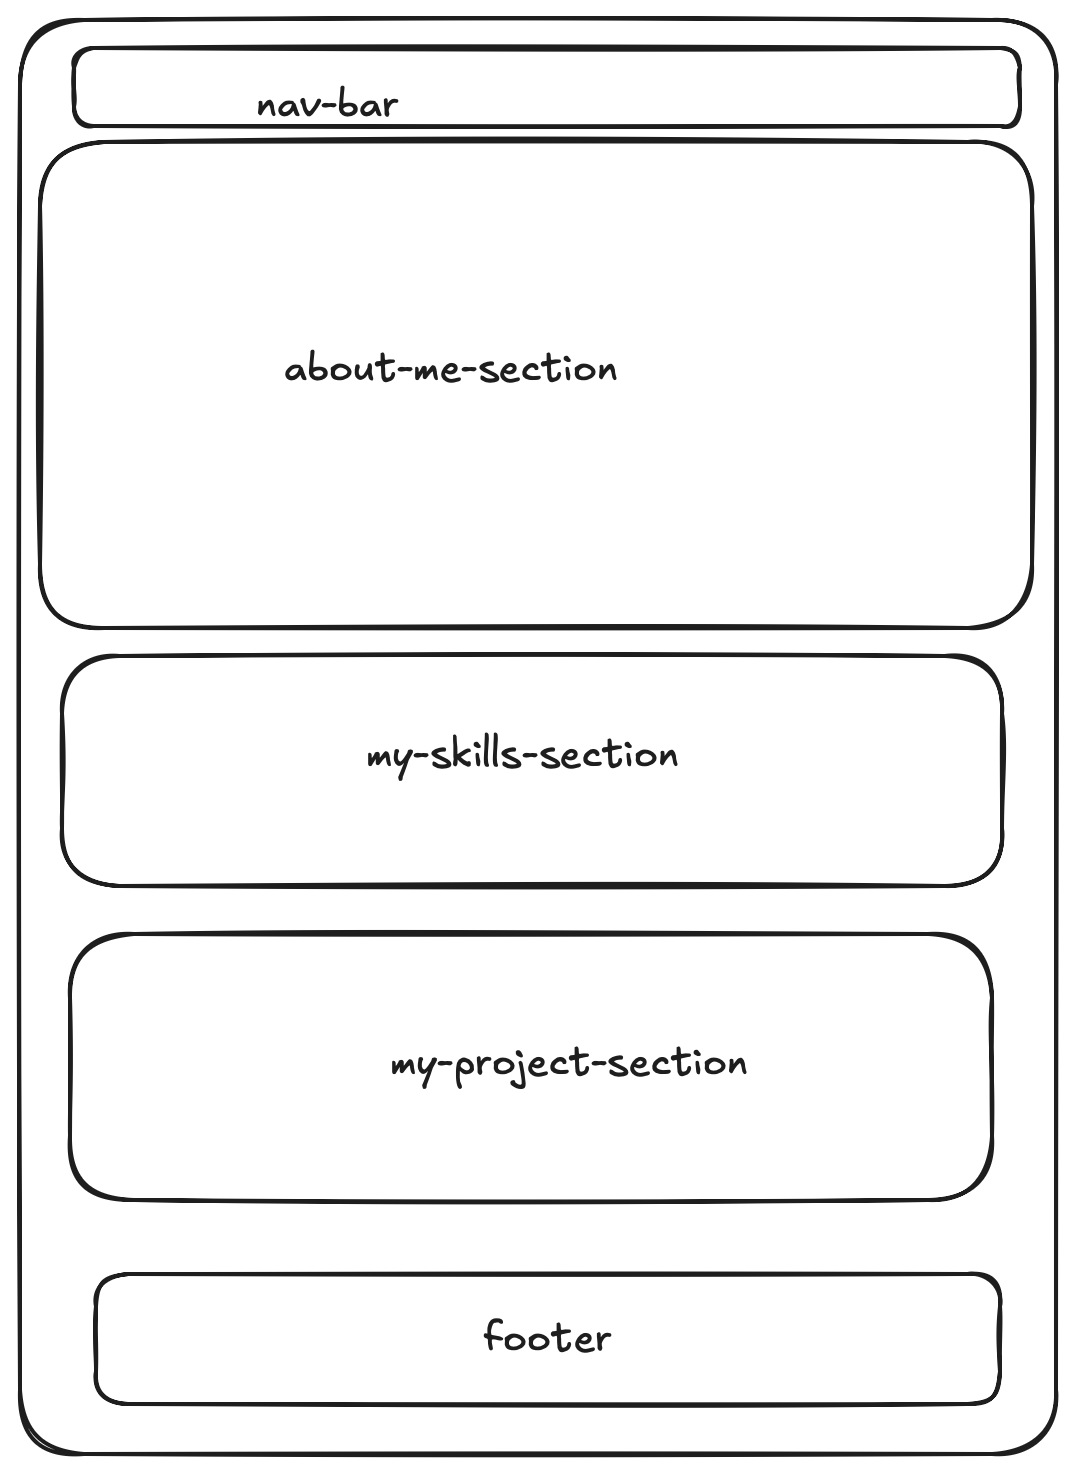
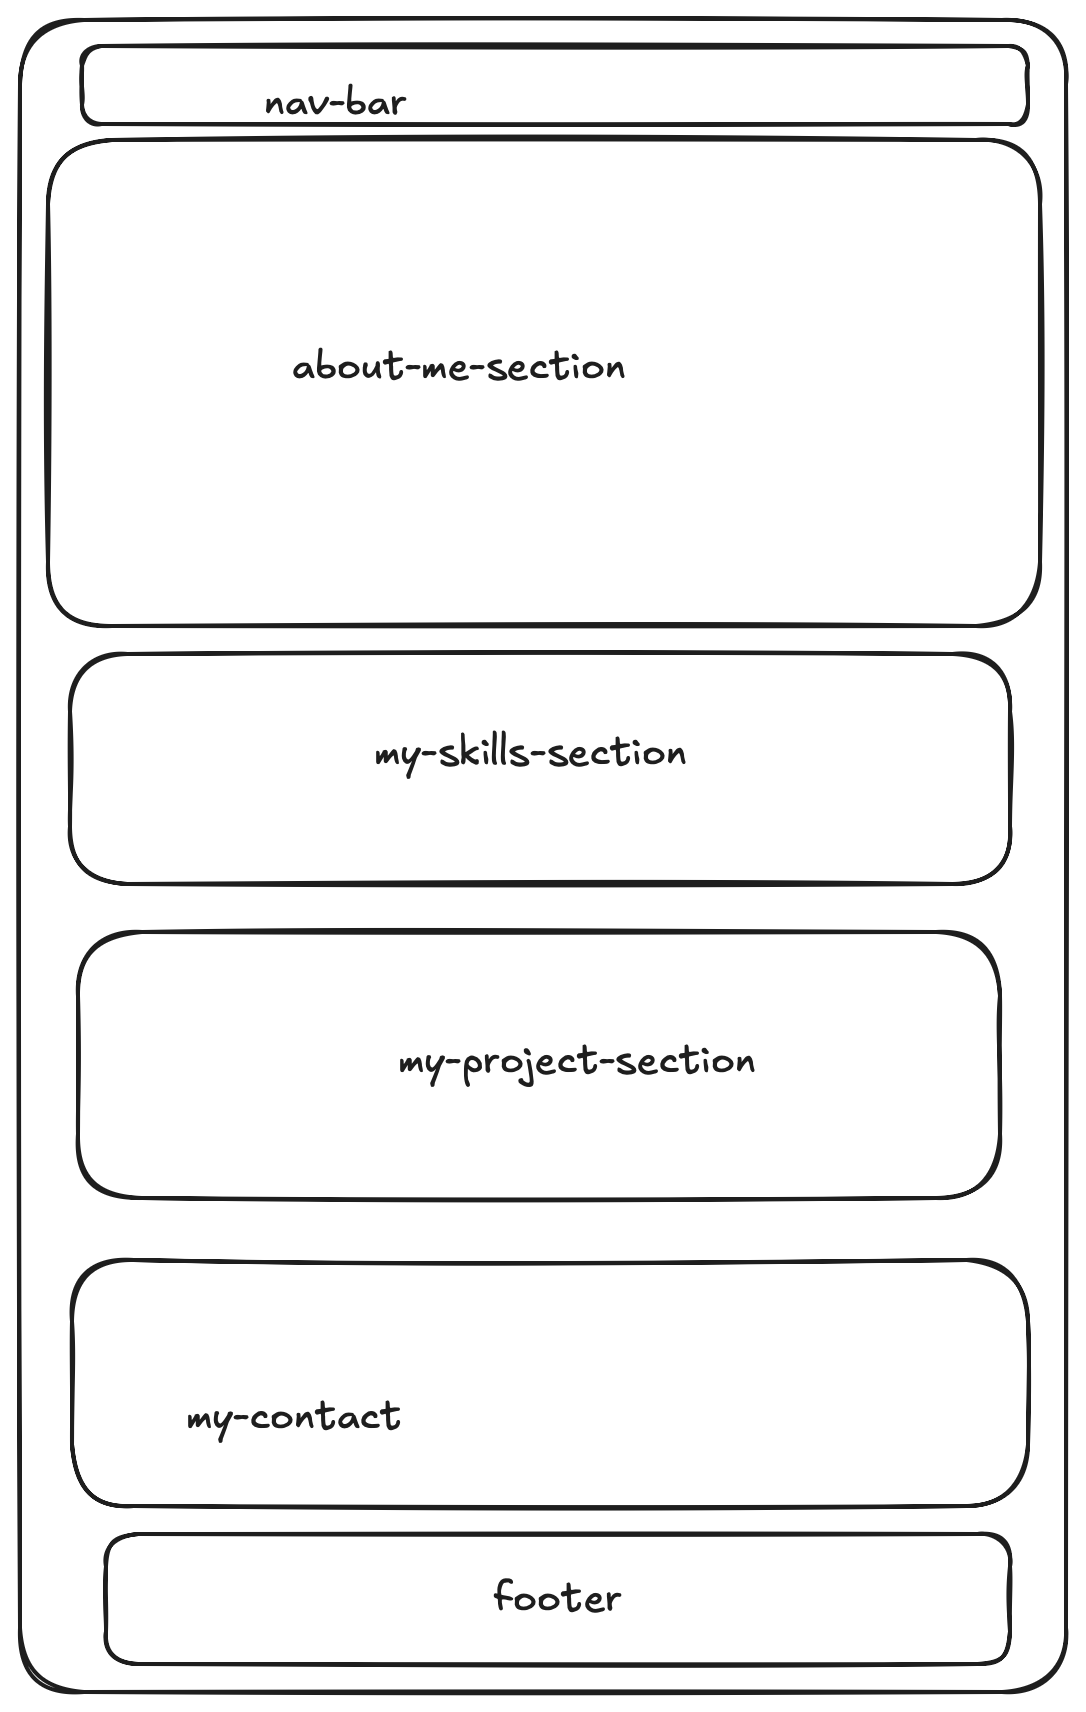
develop my-project-section

diff --git a/index.html b/index.html
@@ -139,6 +139,108 @@
           </ul>
         </div>
       </section>
+
+      <!-- my-project-section -->
+
+      <section id="my-projects">
+        <div class="projects-container">
+          <h2 class="projects-title">My Projects</h2>
+          <p class="projects-description">
+            Here are some of the amazing projects I have worked on. These
+            showcase my skills in web development and my passion for creating
+            innovative solutions.
+          </p>
+          <div class="projects-grid">
+            <!-- My portfolio -->
+
+            <div class="project-item">
+              <div class="project-image">
+                <a href="https://gritchin-artur.github.io/MyPortfolio/"
+                  ><img
+                    src="./planning/img/My_portfolio_project.png"
+                    alt="Learn_lingo"
+                /></a>
+              </div>
+              <div class="project-description">
+                <a href="https://github.com/gritchin-artur/MyPortfolio">
+                  <h3>My portfolio</h3>
+                </a>
+                <p>
+                  This is my portfolio site, it tells about me as a developer.
+                  It shows my skills and technologies that I use in development.
+                </p>
+              </div>
+            </div>
+
+            <!-- Learn lingo -->
+
+            <div class="project-item">
+              <div class="project-image">
+                <a href="https://gritchin-artur.github.io/LearnLingo/"
+                  ><img
+                    src="./planning/img/Learn_lingo_project.png"
+                    alt="Learn_lingo"
+                /></a>
+              </div>
+              <div class="project-description">
+                <a href="https://github.com/gritchin-artur/LearnLingo">
+                  <h3>Learn lingo</h3>
+                </a>
+                <p>
+                  This application is for those who want to learn new languages.
+                  On this site you can choose the language you want to learn,
+                  and then the teacher who will teach you.
+                </p>
+              </div>
+            </div>
+
+            <!-- Read journey -->
+
+            <div class="project-item">
+              <div class="project-image">
+                <a href="https://gritchin-artur.github.io/ReadJourney/"
+                  ><img
+                    src="./planning/img/Read_journey_project.png"
+                    alt="Read_journey"
+                /></a>
+              </div>
+              <div class="project-description">
+                <a href="https://github.com/gritchin-artur/ReadJourney">
+                  <h3>Read journey</h3>
+                </a>
+                <p>
+                  This application will be useful for people who like to read
+                  books. This application will help you find books of your
+                  favorite genre, view their descriptions and also add them to
+                  your favorites.
+                </p>
+              </div>
+            </div>
+
+            <!-- Vocab Builder -->
+
+            <div class="project-item">
+              <div class="project-image">
+                <a href="https://gritchin-artur.github.io/VocabBuilder/"
+                  ><img
+                    src="./planning/img/Vocab_Builder_project.png"
+                    alt="Vocab_Builder"
+                /></a>
+              </div>
+              <div class="project-description">
+                <a href="https://github.com/gritchin-artur/VocabBuilder">
+                  <h3>Vocab Builder</h3>
+                </a>
+                <p>
+                  This application will be useful for people who are learning a
+                  new language. You can learn new words by studying them from an
+                  existing list or adding your own.
+                </p>
+              </div>
+            </div>
+          </div>
+        </div>
+      </section>
     </main>
   </body>
 </html>

diff --git a/styles/something.css b/styles/something.css
@@ -164,10 +164,72 @@ header {
   box-shadow: 0 4px 10px rgba(0 0 0 / 30%);
 }
 
-/* .skill-icon {
-width: 40px;
-  height: 40px;
-} */
+/* my-projects section */
+
+#my-projects {
+  padding: 40px 20px;
+  background-color: #f4f4f4;
+  text-align: center;
+}
+
+.projects-container {
+  max-width: 1200px;
+  margin: 0 auto;
+}
+
+.projects-title {
+  font-size: 2.5rem;
+  color: #333;
+  margin-bottom: 10px;
+  font-family: "Playfair Display", serif;
+}
+
+.projects-description {
+  font-size: 1.1rem;
+  color: #666;
+  margin-bottom: 30px;
+  font-family: "Playfair Display", serif;
+}
+
+.projects-grid {
+  display: grid;
+  grid-template-columns: repeat(auto-fill, minmax(280px, 1fr));
+  gap: 30px;
+  justify-items: center;
+}
+
+.project-item {
+  background-color: #fff;
+  padding: 20px;
+  border-radius: 10px;
+  box-shadow: 0 4px 8px rgba(0 0 0 / 10%);
+  width: 100%;
+  text-align: center;
+  transition: transform 0.3s ease, box-shadow 0.3s ease;
+}
+
+.project-item:hover {
+  transform: translateY(-10px);
+  box-shadow: 0 8px 16px rgba(0 0 0 / 20%);
+}
+
+.project-image img {
+  max-width: 100%;
+  height: auto;
+  border-radius: 8px;
+  margin-bottom: 20px;
+}
+
+.project-description h3 {
+  font-size: 1.5rem;
+  color: #333;
+  margin-bottom: 10px;
+}
+
+.project-description p {
+  font-size: 1rem;
+  color: #555;
+}
 
 /* Keyframes for animation */
 

diff --git a/planning/backlog.md b/planning/backlog.md
@@ -12,6 +12,8 @@ A collection of users who are looking for training frontend developer
 - As a user, I need useful `about-me-section` so user can see info about me.
 - As a user, I need useful `my-skills-section` so user can see my skills.
 - As a user, I need useful `my-project-section` so user can see my projects.
+  - As a user, I need useful `my-contact` so user can see my contact
+    information.
 - As a user, I need a `footer` so I can find the contact information easily.
 
 ### Should-Haves

diff --git a/planning/development-strategy.md b/planning/development-strategy.md
@@ -73,6 +73,19 @@ This feature develops on a branch `my-project-section`.
 
 - Add style to project section
 
+### My contact section
+
+This feature develops on a branch `my-contact`.
+
+#### HTML
+
+- Add `div` to create a container for project section
+- Add `ul` inside the "div"
+
+#### CSS
+
+- Add style to project section
+
 ### Footer
 
 This feature develops on a branch `footer`.
